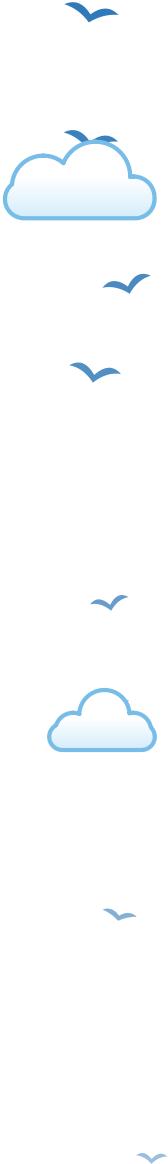
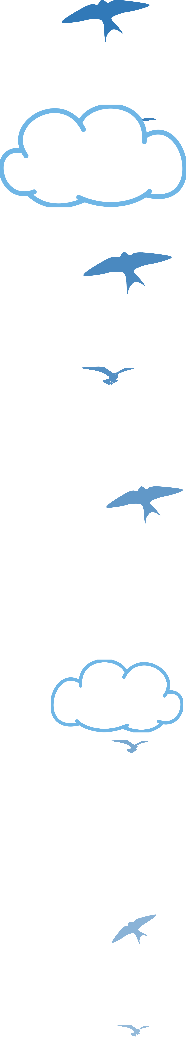
天空蓝主题窗口点缀改用 Openclipart 公有领域素材：白云团与小积云、蓝白风筝带蝴蝶结飘带、燕子与海鸥剪影、上边末端一段雁阵，全部改成蓝系；右上角风筝移到拐角外、飘带垂在窗外，远处加一只小风筝；来源说明逐件列出作者与授权

diff --git a/dstools/qt/ornaments.py b/dstools/qt/ornaments.py
@@ -76,16 +76,17 @@ _SPRITES: dict[str, tuple[Sprite, ...]] = {
         Sprite("sakura_spray_bottom.png", 1, 1, -180.5, -84.5, 185),
     ),
     "sky": (
-        # 排版脚本 sky/compose_sky.py，素材全部自绘。沿上边框向右、沿左边框向下各一行飞鸟，
-        # 越远越小越淡，夹着几朵小白云；都停在外框线外侧，不挡标题文字
-        Sprite("sky_spray_right.png", 0, 0, 350, -23.5, 33),
-        Sprite("sky_spray_down.png", 0, 0, -32, 264, 388),
-        # 左上主角：一朵大白云压在拐角上，下方垫一朵小云，两只鸟从云边飞出
-        Sprite("sky_cluster.png", 0, 0, 11, -3.5, 97),
-        # 右上呼应：拐角一只风筝，风筝线沿上边往左渐隐，挂蝴蝶结的飘带沿右边框往下；都不挡标题栏按钮
-        Sprite("sky_spray_corner.png", 1, 0, -145.5, 96.5, 309),
-        # 右下角：三朵白云叠在拐角，飞鸟沿下边缘往左、沿右边框外侧往上散开；左下角留白
-        Sprite("sky_bottom.png", 1, 1, -173.5, -137.5, 297),
+        # 排版脚本 sky/compose_sky.py。沿上边框向右、沿左边框向下各一行燕子与海鸥，越远越小越淡，
+        # 夹着几朵小白云，上边末端一小段雁阵；都停在外框线外侧，不挡标题文字
+        Sprite("sky_spray_right.png", 0, 0, 382.5, -24, 56),
+        Sprite("sky_spray_down.png", 0, 0, -36, 253, 346),
+        # 左上主角：三朵白云叠在拐角上，两只海鸥从云边飞出
+        Sprite("sky_cluster.png", 0, 0, 14.5, -8, 96),
+        # 右上呼应：拐角外一只风筝，蝴蝶结飘带往右下垂在窗外，风筝线沿上边往左渐隐，远处一只小风筝；
+        # 都不挡标题栏按钮
+        Sprite("sky_spray_corner.png", 1, 0, -138, -31, 120),
+        # 右下角：白云叠在拐角，飞鸟沿下边缘往左、沿右边框外侧往上散开；左下角留白
+        Sprite("sky_bottom.png", 1, 1, -170.5, -126.5, 283),
     ),
     "twilight": (
         # 星夜蓝，排版脚本 twilight/compose_twilight.py，素材全部自绘。沿上边框向右一组北斗七星、
